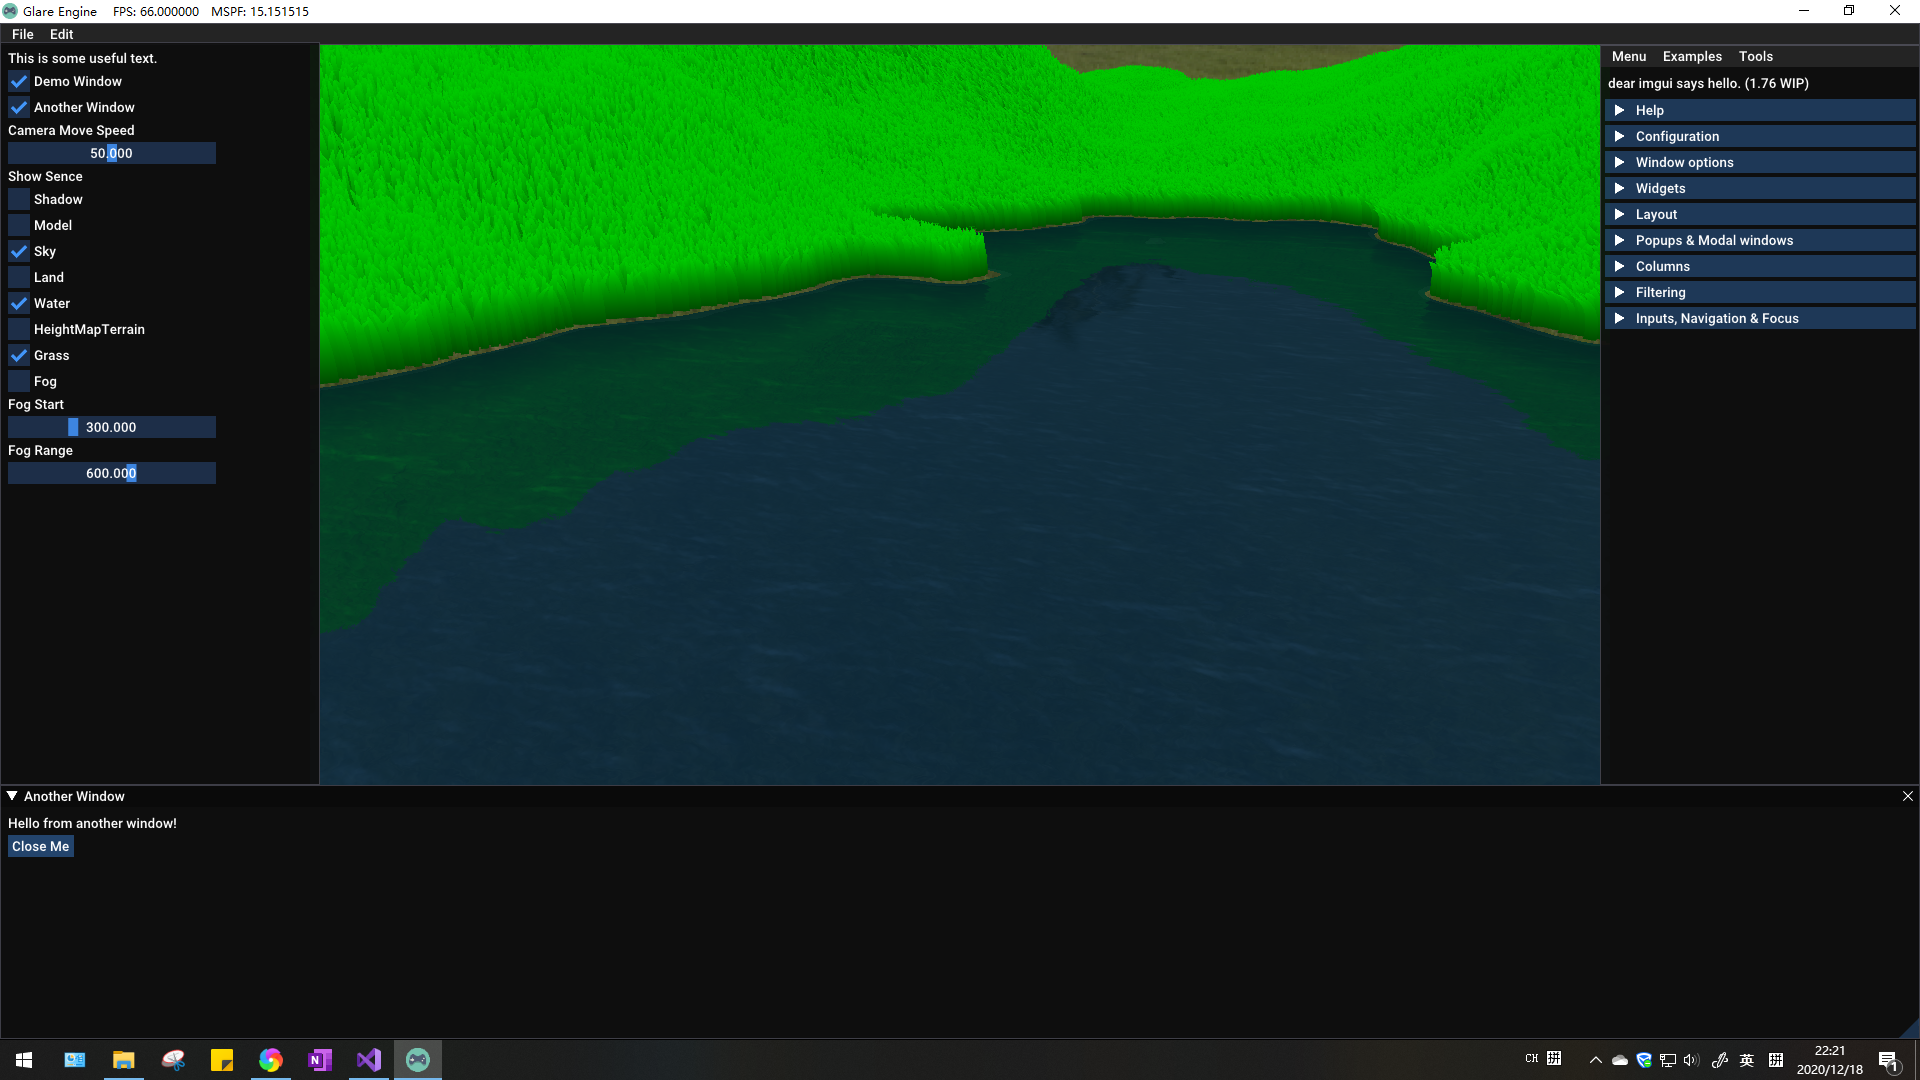
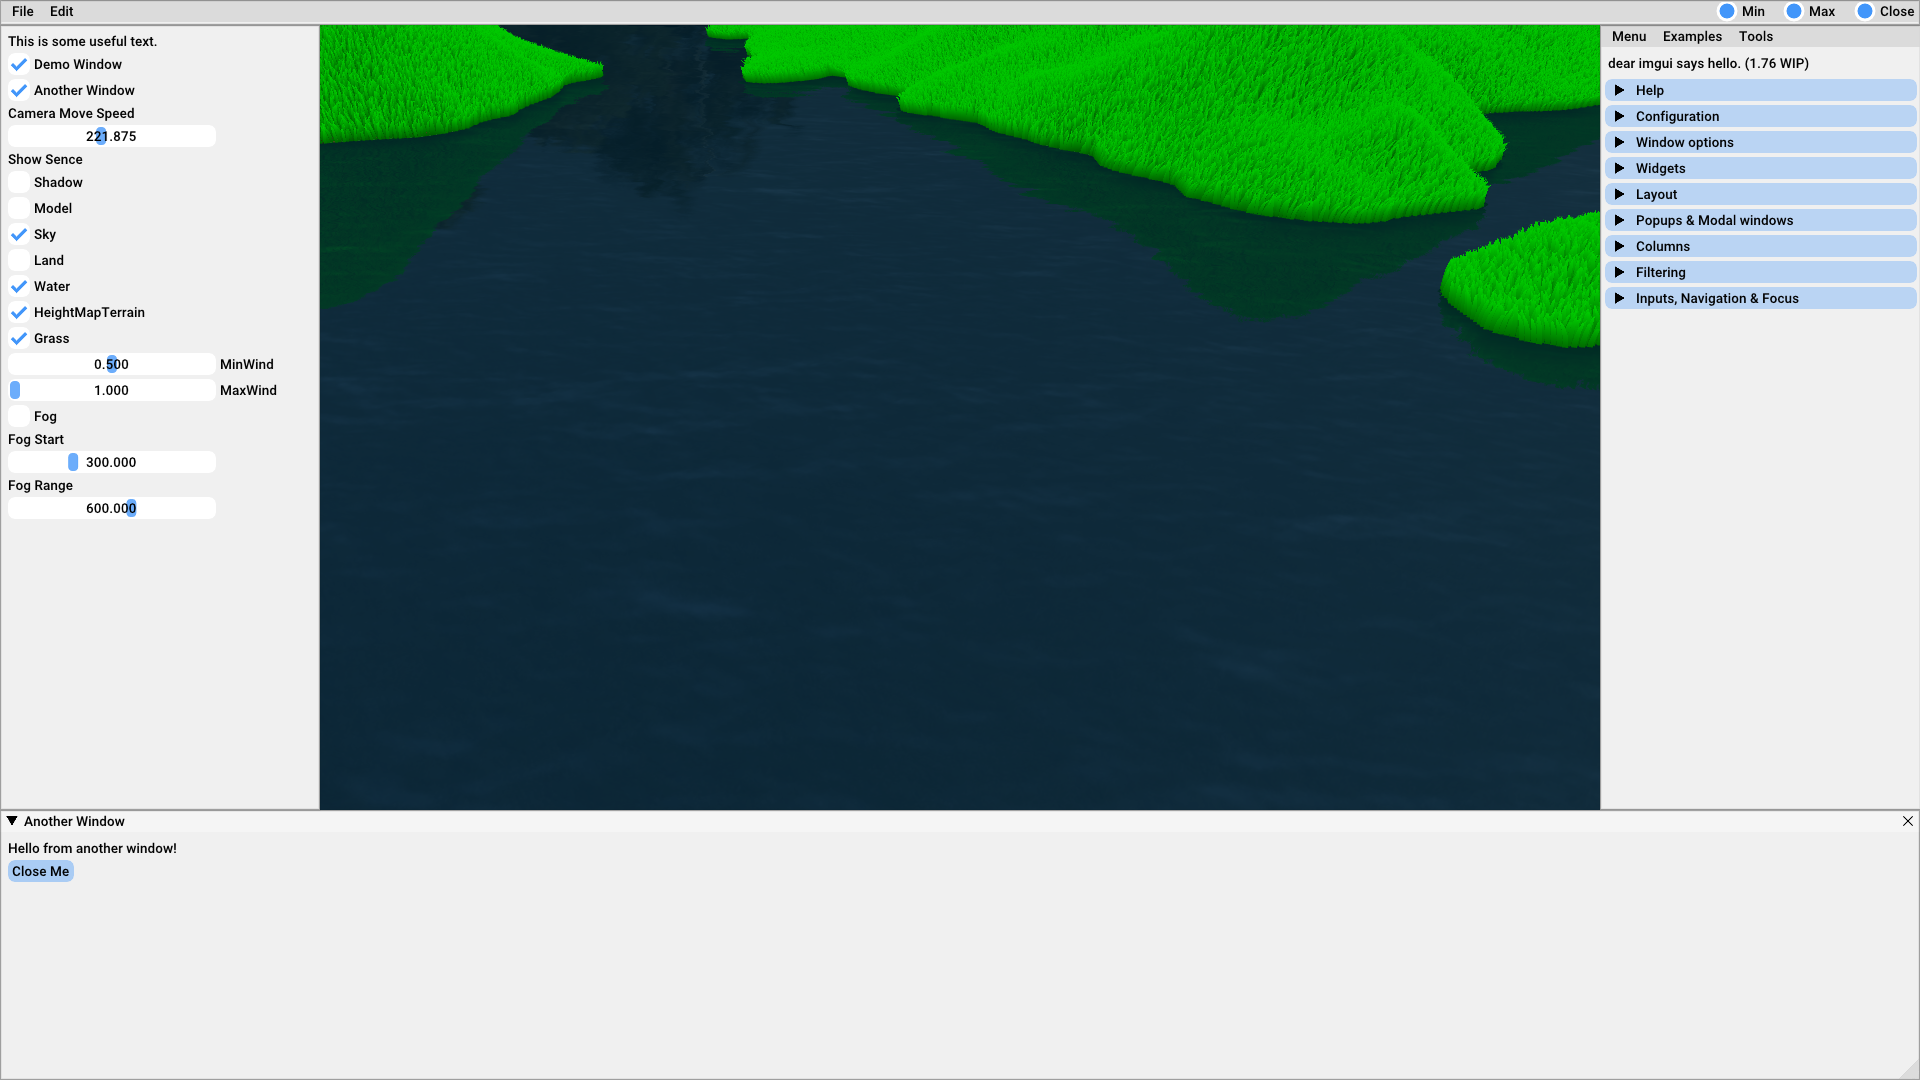
upadte screen shot

diff --git a/GlareEngine/EngineMain/Private/GameMain.cpp b/GlareEngine/EngineMain/Private/GameMain.cpp
@@ -83,7 +83,7 @@ bool GameApp::Initialize()
 	//ShockWaveWater
 	mShockWaveWater = std::make_unique<ShockWaveWater>(md3dDevice.Get(), mClientWidth, mClientHeight,m4xMsaaState, mTextureManage.get());
 	//camera
-	mCamera.LookAt(XMFLOAT3(20.0f, 100.0f, 20.0f), XMFLOAT3(0.0f,0.0f,0.0f), XMFLOAT3(0.0f, 1.0f, 0.0f));
+	mCamera.LookAt(XMFLOAT3(200.0f, 100.0f, 200.0f), XMFLOAT3(0.0f,0.0f,0.0f), XMFLOAT3(0.0f, 1.0f, 0.0f));
 	//sky
 	mSky= std::make_unique<Sky>(md3dDevice.Get(), mCommandList.Get(),5.0f,20,20, mTextureManage.get());
 	//shadow map
